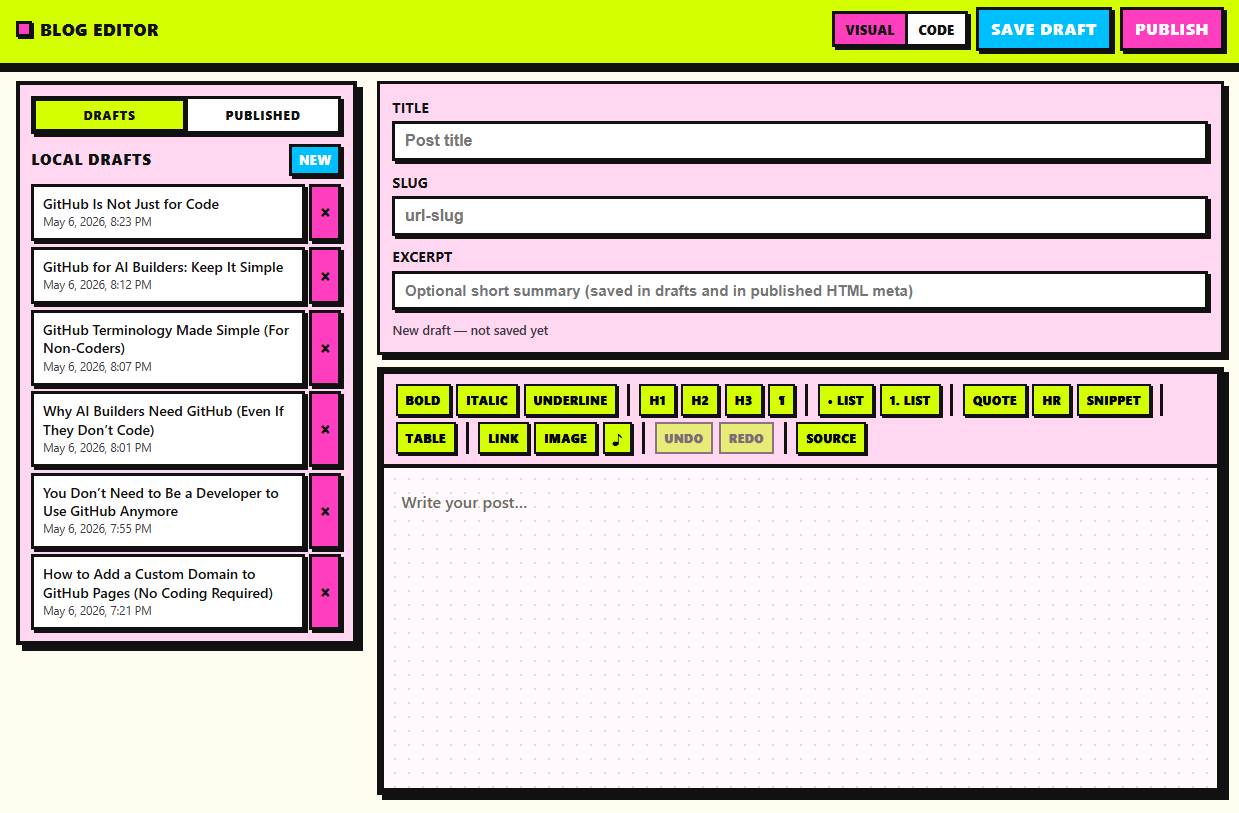
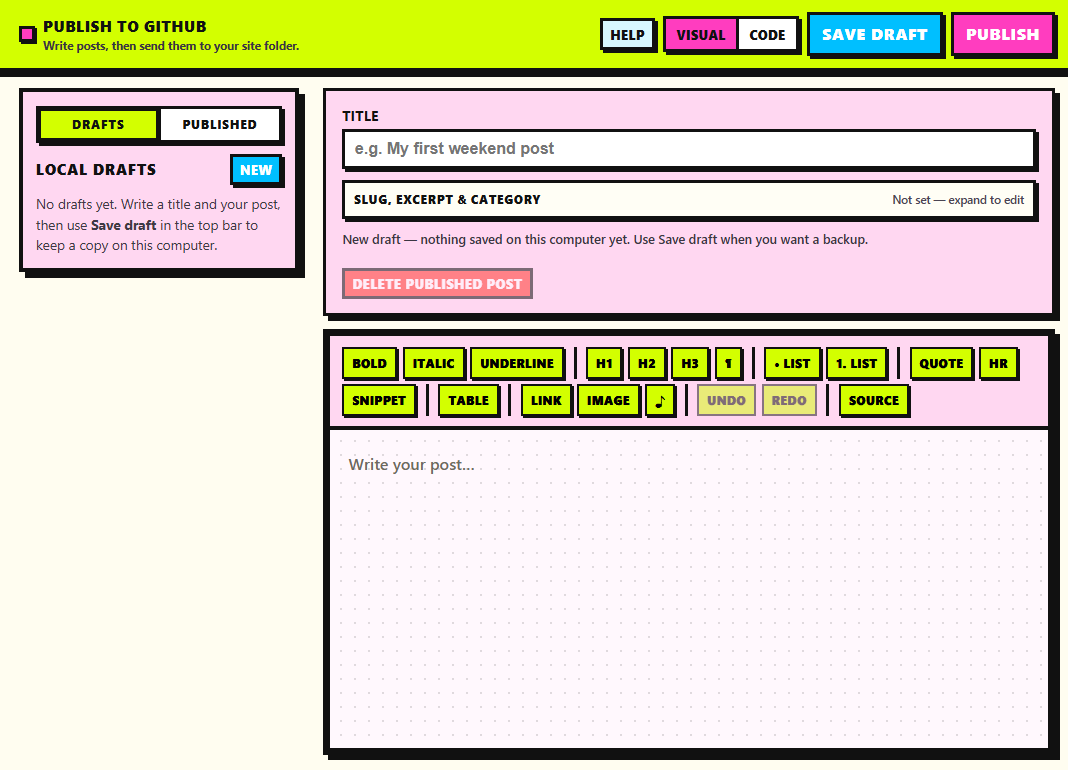
update

diff --git a/src/App.jsx b/src/App.jsx
@@ -20,10 +20,9 @@ import { deletePublishedPost } from './lib/deletePublishedPost'
 import { PublishValidationError } from './lib/publishTemplates'
 import { postHref, postRepoPath } from './lib/blogPaths'
 import {
-  buildOptimisticPublishedFile,
   filterVisiblePublishedPosts,
+  mergeRepoPublishedWithLocal,
   pruneRecentlyDeletedSlugs,
-  upsertPublishedPost,
   withoutDeletedPost,
 } from './lib/publishedPosts'
 import { PostTemplatePanel } from './components/PostTemplatePanel'
@@ -138,7 +137,7 @@ export default function App() {
           branch: githubSettings.branch?.trim() || 'main',
         })
         const sorted = [...files].sort((a, b) => a.name.localeCompare(b.name))
-        setPublishedFiles(sorted)
+        setPublishedFiles((current) => mergeRepoPublishedWithLocal(current, sorted))
         setRecentlyDeletedSlugs((prev) => pruneRecentlyDeletedSlugs(prev, sorted))
         return sorted
       } catch (err) {
@@ -414,29 +413,41 @@ export default function App() {
         const publishedDraftId = draftId
         const s = slug.trim() || slugify(title) || 'post'
         const path = postRepoPath(s)
+        const currentSlug = s
         const result = await publishPostAndIndex({
           form,
           path,
-          slug: s,
+          slug: currentSlug,
           title,
           content,
           excerpt,
           category,
           categoryClass: 'nb-bg-pink',
         })
+        console.log('Publish result:', result)
         setIndexHomeBanner(result.indexHomeBanner)
 
-        const publishedItem = buildOptimisticPublishedFile({
-          slug: result.slug,
-          title: result.title,
-          excerpt: result.excerpt,
-          category: result.category,
-          path: result.postPath,
-          url: result.url,
-          publishedAt: result.publishedAt,
+        const publishedPost = {
+          slug: result.slug || currentSlug,
+          title: result.title || title,
+          excerpt: result.excerpt ?? excerpt,
+          category: result.category ?? category,
+          path: result.postPath || result.path || postRepoPath(currentSlug),
+          url: result.url || postHref(currentSlug),
+          publishedAt: result.publishedAt || new Date().toISOString(),
+          name: `${result.slug || currentSlug}.html`,
+          sha: null,
+        }
+        console.log('Optimistic published post:', publishedPost)
+        console.log('Updating publishedPosts after publish')
+
+        setPublishedFiles((posts) => {
+          const withoutExisting = posts.filter(
+            (post) => post.slug !== publishedPost.slug && post.path !== publishedPost.path,
+          )
+          return [publishedPost, ...withoutExisting]
         })
-        setPublishedFiles((posts) => upsertPublishedPost(posts, publishedItem))
-        setRecentlyDeletedSlugs((prev) => prev.filter((deleted) => deleted !== result.slug))
+        setRecentlyDeletedSlugs((prev) => prev.filter((deleted) => deleted !== publishedPost.slug))
         setListTab('published')
 
         if (result.workflowWarning) pushToast(result.workflowWarning)

diff --git a/src/lib/publishedPosts.js b/src/lib/publishedPosts.js
@@ -5,10 +5,42 @@ export function publishedFileSlug(file) {
   return String(file?.name ?? '').replace(/\.html$/i, '') || ''
 }
 
+/** Slug for sidebar filtering (optimistic entries store slug explicitly). */
+export function publishedEntrySlug(post) {
+  const explicit = String(post?.slug ?? '').trim()
+  if (explicit) return explicit
+  return publishedFileSlug(post)
+}
+
 /** Sidebar list: hide posts the user just deleted until repo API confirms removal. */
 export function filterVisiblePublishedPosts(files, recentlyDeletedSlugs) {
   const blocked = new Set(recentlyDeletedSlugs)
-  return files.filter((post) => !blocked.has(publishedFileSlug(post)))
+  return files.filter((post) => !blocked.has(publishedEntrySlug(post)))
+}
+
+/**
+ * Merge GitHub contents API list with local optimistic entries not yet returned by the API.
+ * @param {Array<object>} localFiles
+ * @param {Array<{ name: string, path: string, sha?: string }>} repoFiles
+ */
+export function mergeRepoPublishedWithLocal(localFiles, repoFiles) {
+  const repoPaths = new Set(repoFiles.map((f) => f.path))
+  const pendingLocal = localFiles.filter((f) => f.path && !repoPaths.has(f.path))
+  const fromRepo = repoFiles.map((f) => {
+    const local = localFiles.find((l) => l.path === f.path)
+    return {
+      ...f,
+      slug: local?.slug ?? publishedFileSlug(f),
+      title: local?.title,
+      excerpt: local?.excerpt,
+      category: local?.category,
+      url: local?.url,
+      publishedAt: local?.publishedAt,
+    }
+  })
+  return [...pendingLocal, ...fromRepo].sort((a, b) =>
+    String(a.name ?? '').localeCompare(String(b.name ?? '')),
+  )
 }
 
 /**
@@ -66,7 +98,10 @@ export function buildOptimisticPublishedFile({
 /** Prepend or replace by slug/path (newest first). */
 export function upsertPublishedPost(files, item) {
   const withoutExisting = files.filter(
-    (post) => publishedFileSlug(post) !== item.slug && post.path !== item.path,
+    (post) =>
+      publishedEntrySlug(post) !== item.slug &&
+      post.path !== item.path &&
+      post.slug !== item.slug,
   )
   return [item, ...withoutExisting]
 }

diff --git a/src/lib/__tests__/publishedPosts.test.js b/src/lib/__tests__/publishedPosts.test.js
@@ -2,7 +2,9 @@ import { describe, expect, it } from 'vitest'
 import {
   buildOptimisticPublishedFile,
   filterVisiblePublishedPosts,
+  mergeRepoPublishedWithLocal,
   pruneRecentlyDeletedSlugs,
+  publishedEntrySlug,
   publishedFileSlug,
   upsertPublishedPost,
   withoutDeletedPost,
@@ -51,6 +53,22 @@ describe('publishedPosts helpers', () => {
     const next2 = upsertPublishedPost(next, updated)
     expect(next2).toHaveLength(2)
     expect(next2[0].title).toBe('Old revised')
+  })
+
+  it('filterVisiblePublishedPosts uses explicit slug on optimistic entries', () => {
+    const posts = [{ slug: 'x', name: 'wrong.html', path: 'blog/posts/x.html' }]
+    expect(filterVisiblePublishedPosts(posts, ['x'])).toHaveLength(0)
+    expect(publishedEntrySlug(posts[0])).toBe('x')
+  })
+
+  it('mergeRepoPublishedWithLocal keeps optimistic posts missing from repo API', () => {
+    const local = [
+      { slug: 'new', name: 'new.html', path: 'blog/posts/new.html', title: 'New', sha: null },
+      { slug: 'old', name: 'old.html', path: 'blog/posts/old.html', sha: 'abc' },
+    ]
+    const repo = [{ name: 'old.html', path: 'blog/posts/old.html', sha: 'abc' }]
+    const merged = mergeRepoPublishedWithLocal(local, repo)
+    expect(merged.map((p) => p.slug)).toEqual(['new', 'old'])
   })
 
   it('pruneRecentlyDeletedSlugs drops slug when file is gone from repo list', () => {

diff --git a/src/lib/publishPipeline.js b/src/lib/publishPipeline.js
@@ -147,6 +147,7 @@ export async function publishPostAndIndex({
     indexUpdateReason: indexResult.reason ?? 'Card inserted between BLOG_POSTS markers.',
     indexPath,
     postPath: path,
+    path,
     slug,
     title: safeTitle,
     excerpt: String(excerpt ?? '').trim(),
